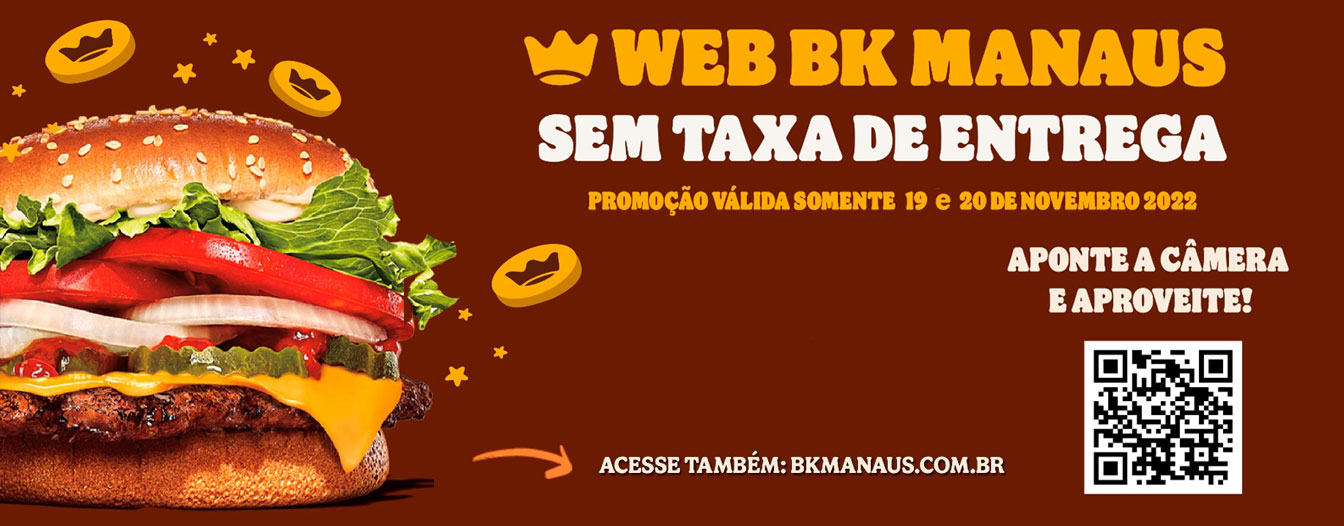
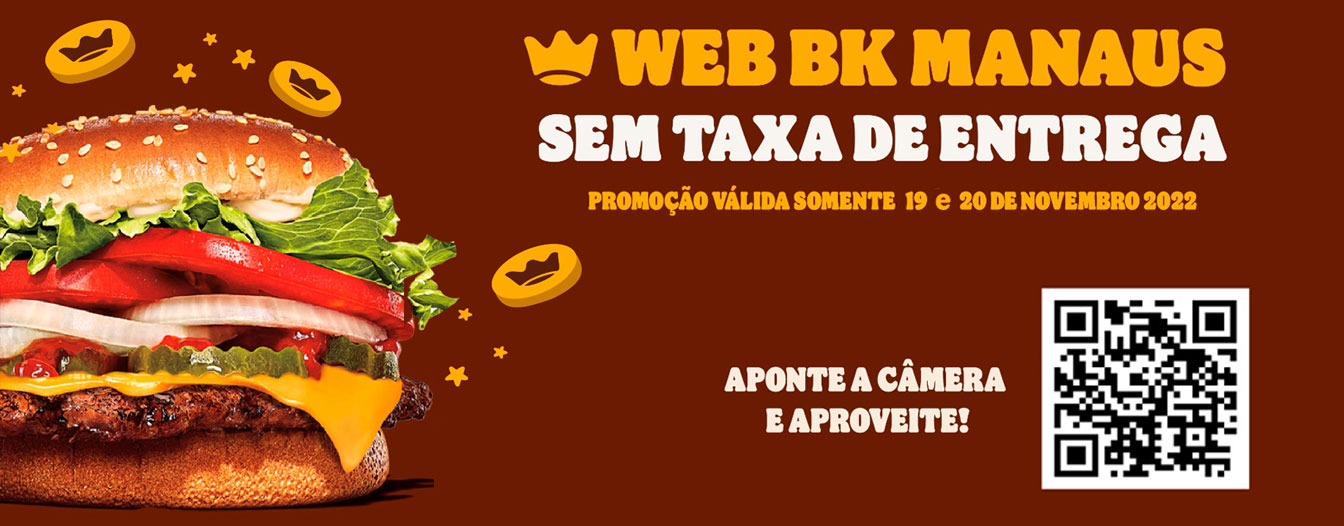
atualizando

Changed region(s): [[0.3438, 0.5475, 0.9375, 0.943], [0.75, 0.4563, 0.9688, 0.5171]]

diff --git a/site/index.php b/site/index.php
@@ -201,7 +201,7 @@
   <div class="carousel-inner">
     <div class="carousel-item active ">
     <a href="https://app.bkmanaus.com.br" target="_blank" class="btn-get-started scrollto">
-      <img src="assets/img/banners/bkd1.jpg" class="d-block w-100" alt="...">
+      <img src="assets/img/banners/md1.jpg" class="d-block w-100" alt="...">
       </a>
     </div>
 
